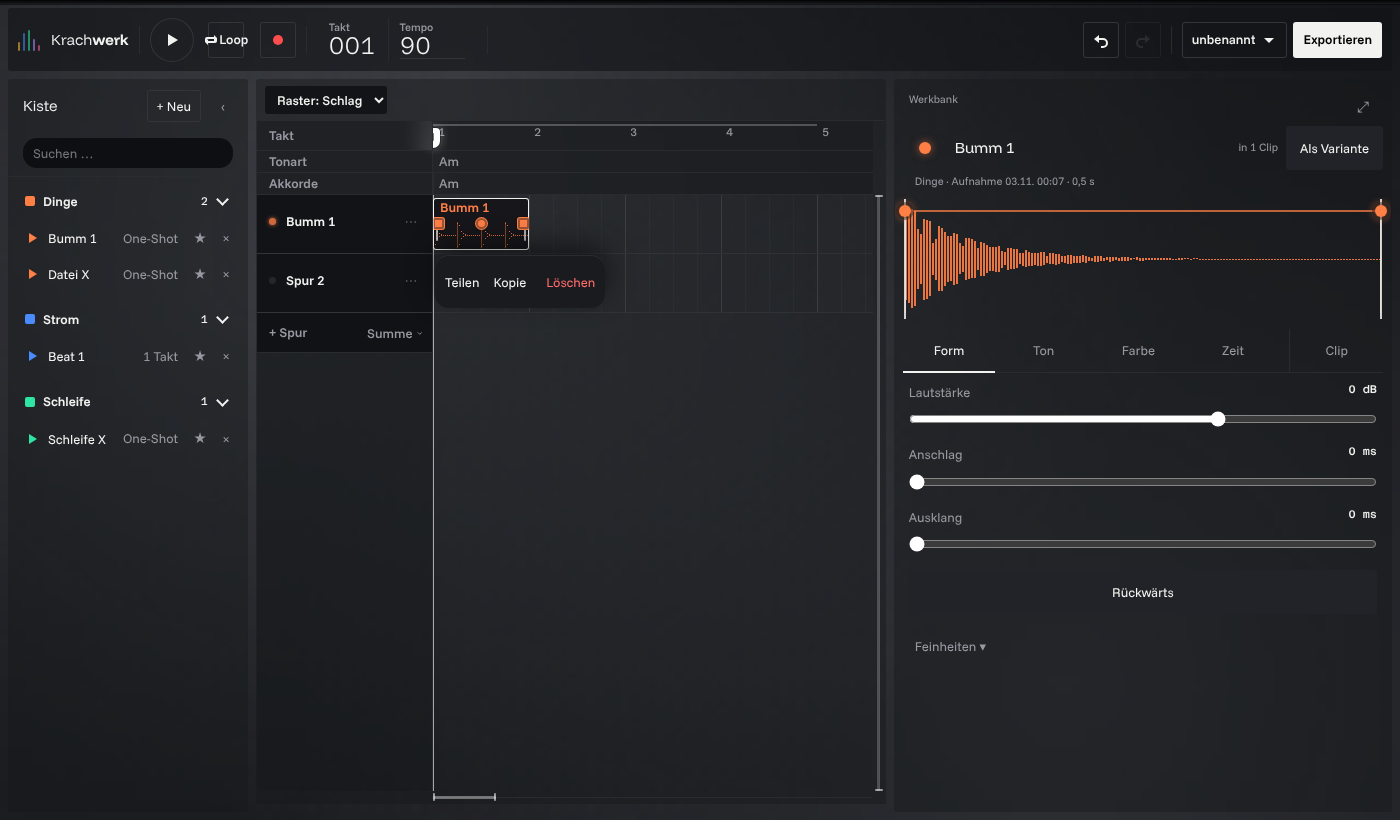
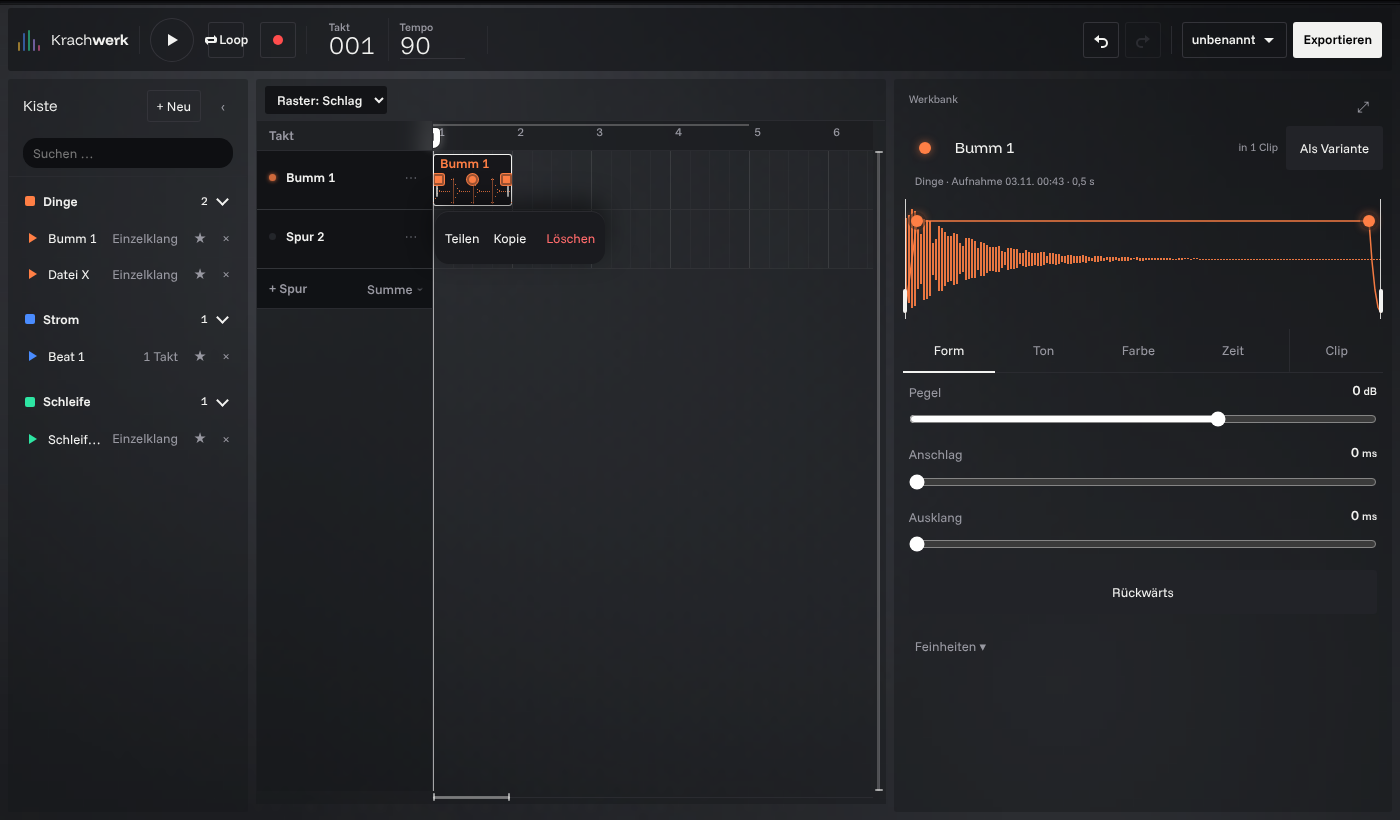
Krachwerk 2a: Auflagen der CD-Durchsicht
- Handy-Schublade „Mitte“: ohne Titel, Welle 72 px, kompakte Zeilen –
  alle Grund-Griffe jedes Reiters sichtbar (Test je Reiter)
- Welle: Anfang/Ende unten, Hüllkurve oben, 12 px nach innen – vier
  unterscheidbare Griffe ≥ 44 px
- Wörter: Einheiten in Sans, „Pegel“ (Sound) vs. „Clip-Lautstärke“,
  Halbtöne ohne doppeltes Wort, „Einzelklang“ in der Kiste
- Einblender verschwindet nach ↶ von „Als Variante“
- Desktop: Tonart-/Akkordzeile ohne Wechsel Stufe 3, Schalter in der
  Song-Werkbank; ⤢ zeigt Takt 1–4 ganz
- tests/werkstatt.test.cjs 100

Claude-Session: https://claude.ai/code/session_011dt3cfyoFbmfWywTqCQhnG

diff --git a/src/ui/sound-bench.js b/src/ui/sound-bench.js
@@ -341,7 +341,7 @@ export function mountSoundBench(box, { store, ui, library, engine, tools, own = 
     sr.insertBefore(el('span', null, 'Halbtöne'), minus);
     sr.insertBefore(sOut, plus);
     grund.append(sr);
-    updaters.push((ctx) => { const v = ctx.r.semis ?? 0; setOut(sOut, v ? `${signed(v)} ${Math.abs(v) === 1 ? 'Halbton' : 'Halbtöne'}` : '0 Halbtöne'); minus.disabled = v <= -24; plus.disabled = v >= 24; });
+    updaters.push((ctx) => { const v = ctx.r.semis ?? 0; setOut(sOut, v ? signed(v) : '0'); minus.disabled = v <= -24; plus.disabled = v >= 24; });
     rslider(grund, 'cents', 'Feinstimmung', { min: -100, max: 100, step: 1, def: 0, fmt: (v) => `${signed(v)} Cent` });
     const auto = btn(grund, 'Auf Tonart', 'wb-tonart', () => {
       const pc = detect()?.done;

diff --git a/index.html b/index.html
@@ -2976,7 +2976,7 @@
     #app[data-density="calm"] .wb-row input[type="range"] { height: 22px; }
     #app[data-density="calm"] .wb-grund .wb-btn { min-height: 42px; }
     #app[data-density="calm"] .wb-fine-btn { min-height: 40px; }
-    #app[data-density="calm"] .wb-row { min-height: 42px; }
+    #app[data-density="calm"] .wb-row { min-height: 40px; }
     #app[data-density="calm"] .wb-tab { min-height: 40px; }
     #app[data-density="calm"].dock-open :is(.sum-toggle, .add-track) { visibility: hidden; }
     #app[data-density="calm"] .wb-grund .insp-speed { grid-template-columns: minmax(0, 1fr) auto auto; min-height: 44px; }
